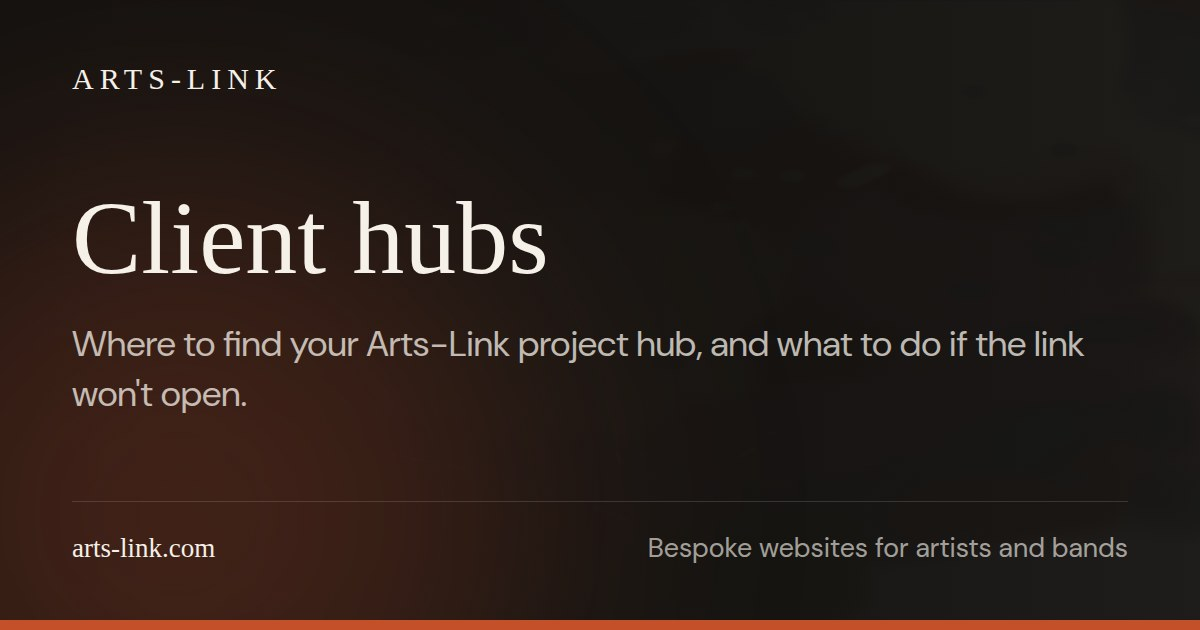
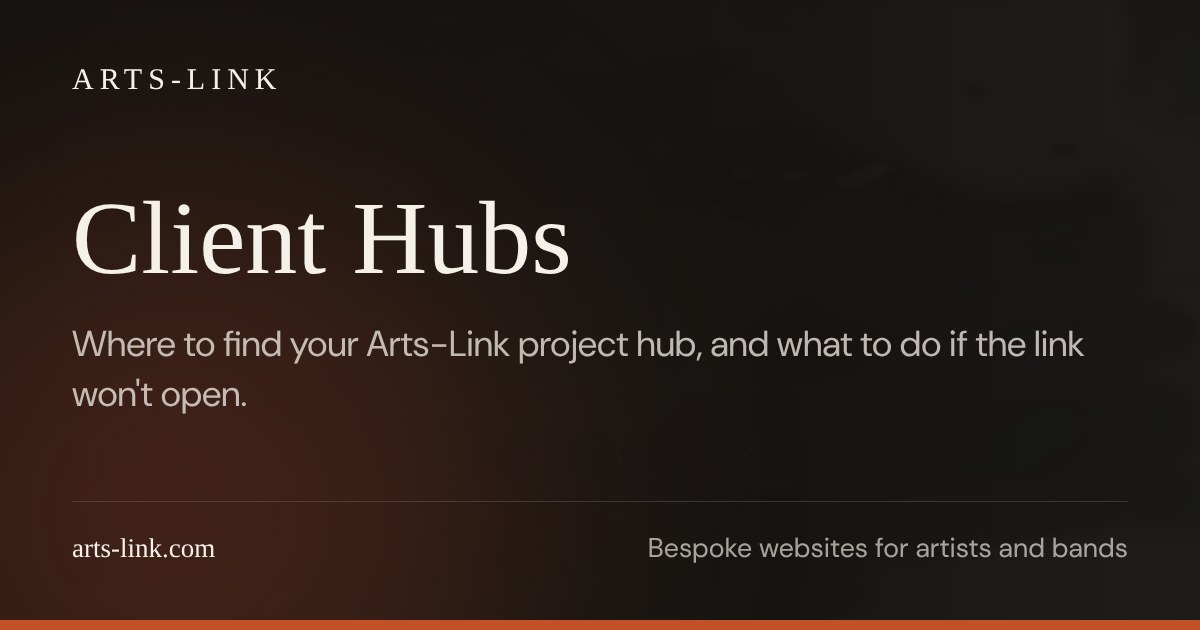
Title case for every h1 and h2
Dynamic headings go through Hugo's title function (AP style): page titles in layouts, the page <title>, JSON-LD names, social cards, and markdown # / ## headings via a render hook. Hand-written template headings are title case, and a smoke test checks every built h1/h2. h3 and below stay sentence case. Updates writing-style and design-system docs; regenerates the cards whose titles changed.

Claude-Session: https://claude.ai/code/session_01A2ZgeWNbXddwNj2k77Go2p

diff --git a/tests/smoke.test.js b/tests/smoke.test.js
@@ -394,9 +394,9 @@ describe.skipIf(!built)('smoke – internal links resolve', () => {
 describe.skipIf(!built)('smoke – work filter pages', () => {
   const FILTERS = [
     { page: 'work/index.html', href: '/work/', label: 'All', type: null },
-    { page: 'work/new-sites/index.html', href: '/work/new-sites/', label: 'New sites', type: 'new' },
-    { page: 'work/rescues/index.html', href: '/work/rescues/', label: 'Site rescues', type: 'rescue' },
-    { page: 'work/open-source/index.html', href: '/work/open-source/', label: 'Open source', type: 'open-source' },
+    { page: 'work/new-sites/index.html', href: '/work/new-sites/', label: 'New sites', heading: 'New Sites', type: 'new' },
+    { page: 'work/rescues/index.html', href: '/work/rescues/', label: 'Site rescues', heading: 'Site Rescues', type: 'rescue' },
+    { page: 'work/open-source/index.html', href: '/work/open-source/', label: 'Open source', heading: 'Open Source', type: 'open-source' },
   ];
   const cards = (rel) =>
     [...readPage(rel).window.document.querySelectorAll('article h3')].map((h) => h.textContent.trim());
@@ -427,10 +427,10 @@ describe.skipIf(!built)('smoke – work filter pages', () => {
     expect(document.querySelector('[data-filter]')).toBeNull();
   });
 
-  it.each(FILTERS.slice(1))('$page has its own title, description and canonical', ({ page, label, href }) => {
+  it.each(FILTERS.slice(1))('$page has its own title, description and canonical', ({ page, heading, href }) => {
     const { document } = readPage(page).window;
-    expect(document.querySelector('h1').textContent.trim()).toBe(label);
-    expect(document.title).toContain(label);
+    expect(document.querySelector('h1').textContent.trim()).toBe(heading);
+    expect(document.title).toContain(heading);
     expect(document.querySelector('link[rel="canonical"]').getAttribute('href')).toMatch(new RegExp(`${href}$`));
     expect(document.querySelector('header p.text-cream\\/55')?.textContent.trim()).toBe(metaDescription(page));
   });
@@ -442,5 +442,31 @@ describe.skipIf(!built)('smoke – work filter pages', () => {
       expect(home).not.toContain(`/work/${slug}/`);
       expect(llms).not.toContain(`/work/${slug}/`);
     }
+  });
+});
+
+// ─── Title case ──────────────────────────────────────────────────────────────
+
+// h1 and h2 are title case site-wide. Templates and the markdown heading hook
+// run text through Hugo's `title` (AP style: these small words stay lowercase
+// unless they start the heading). The content/ layouts' hand-written headings
+// are checked here too, since Hugo cannot do that for literal text.
+describe.skipIf(!built)('smoke – title case headings', () => {
+  const SMALL = new Set(['a', 'an', 'and', 'as', 'at', 'but', 'by', 'for', 'if', 'in', 'nor', 'of', 'on', 'or', 'so', 'the', 'to', 'up', 'vs', 'yet']);
+  const offenders = [];
+  for (const file of findHtmlFiles(PUBLIC)) {
+    const { document } = new JSDOM(fs.readFileSync(file, 'utf8')).window;
+    for (const h of document.querySelectorAll('h1, h2')) {
+      const words = h.textContent.replace(/\s+/g, ' ').trim().split(' ');
+      const bad = words.find((w, i) => {
+        const bare = w.replace(/^[^A-Za-z]+/, '');
+        return bare && /[a-z]/.test(bare[0]) && (i === 0 || !SMALL.has(bare.toLowerCase().replace(/[^a-z]+$/, '')));
+      });
+      if (bad) offenders.push(`${path.relative(PUBLIC, file)}: "${words.join(' ')}"`);
+    }
+  }
+
+  it('every h1 and h2 is in title case', () => {
+    expect(offenders).toEqual([]);
   });
 });

diff --git a/layouts/services/list.html b/layouts/services/list.html
@@ -14,7 +14,7 @@
   <!-- Who it's for -->
   <section class="border-t border-cream/10">
     <div class="max-w-6xl mx-auto px-6 py-24">
-      <h2 class="font-display text-3xl md:text-4xl text-cream font-light mb-16">Who I work with</h2>
+      <h2 class="font-display text-3xl md:text-4xl text-cream font-light mb-16">Who I Work With</h2>
       <div class="grid grid-cols-1 md:grid-cols-3 gap-10">
         <div>
           <div class="w-8 h-[2px] bg-ember mb-8"></div>
@@ -38,7 +38,7 @@
   <!-- Process -->
   <section class="border-t border-cream/10">
     <div class="max-w-6xl mx-auto px-6 py-24">
-      <h2 class="font-display text-3xl md:text-4xl text-cream font-light mb-16">How it works</h2>
+      <h2 class="font-display text-3xl md:text-4xl text-cream font-light mb-16">How It Works</h2>
       <div class="grid grid-cols-1 sm:grid-cols-2 md:grid-cols-4 gap-10">
         {{ range $i, $step := slice "We talk about your project — what you need, what you have, what you want." "I design and build the site, checking in with you along the way." "We launch. I teach you how to update content yourself." "You own everything. I'm available when you need me." }}
         <div>
@@ -54,7 +54,7 @@
   <section class="border-t border-cream/10">
     <div class="max-w-6xl mx-auto px-6 py-24 flex flex-col md:flex-row justify-between items-start gap-8">
       <div>
-        <h2 class="font-display text-2xl text-cream font-light mb-3">Domain names</h2>
+        <h2 class="font-display text-2xl text-cream font-light mb-3">Domain Names</h2>
         <p class="text-cream/45 max-w-lg text-sm leading-relaxed">
           Need a domain? I run a domain reseller store with competitive pricing. Getting the right domain is the first step for any new site.
         </p>

diff --git a/layouts/blog/list.html b/layouts/blog/list.html
@@ -5,7 +5,7 @@
   <header class="pb-14 border-b border-cream/10">
     <p class="text-cream/25 text-xs tracking-widest uppercase mb-5" aria-hidden="true">Studio notes</p>
     <h1 class="font-display text-6xl md:text-7xl text-cream font-light leading-none mb-6">
-      {{ .Title }}
+      {{ .Title | title }}
     </h1>
     {{ with .Description }}
     <p class="text-cream/45 text-lg max-w-lg leading-relaxed">{{ . }}</p>
@@ -30,7 +30,7 @@
           <!-- Content -->
           <div class="flex-1 min-w-0">
             <h2 class="font-display text-3xl md:text-4xl text-cream font-light leading-snug mb-4 group-hover:text-ember transition-colors duration-300">
-              <a href="{{ .RelPermalink }}">{{ .Title }}</a>
+              <a href="{{ .RelPermalink }}">{{ .Title | title }}</a>
             </h2>
             {{ with .Description }}
             <p class="text-cream/60 text-base leading-relaxed mb-6 max-w-xl">{{ . }}</p>

diff --git a/layouts/thanks/list.html b/layouts/thanks/list.html
@@ -1,7 +1,7 @@
 {{ define "main" }}
 <div class="min-h-[80vh] flex flex-col items-center justify-center text-center px-6">
   <p class="text-ember text-xs tracking-[0.3em] uppercase mb-6">{{ .Params.eyebrow | default "Message received" }}</p>
-  <h1 class="font-display text-5xl md:text-7xl text-cream font-light mb-6">{{ .Params.heading | default "Thank you." }}</h1>
+  <h1 class="font-display text-5xl md:text-7xl text-cream font-light mb-6">{{ .Params.heading | default "Thank you." | title }}</h1>
   <p class="text-cream/50 text-lg max-w-sm mb-14 leading-relaxed">
     {{ .Params.body | default "I'll get back to you personally within a day or two." }}
   </p>

diff --git a/layouts/archive-worksheet/list.html b/layouts/archive-worksheet/list.html
@@ -152,7 +152,7 @@ button[type=submit]:hover{background:var(--warm)}
 </header>
 
 <div class="expect">
-  <h2>Before you start — what to expect</h2>
+  <h2>Before You Start — What to Expect</h2>
   <ul>
     <li><strong>The first conversation is free.</strong> I&rsquo;ll review this worksheet, talk with you for about 45 minutes, and submit a written plan with a fee structure.</li>
     <li><strong>Most projects run $5,000–$8,000</strong> for my work, plus roughly $1,000–$2,500 paid directly to the scanning lab (if your material is not already scanned). Smaller collections cost less. We&rsquo;ll size yours together.</li>

diff --git a/layouts/partials/head/json-ld.html b/layouts/partials/head/json-ld.html
@@ -49,7 +49,7 @@
       "@type": "{{ if .IsPage }}WebPage{{ else }}CollectionPage{{ end }}",
       "@id": "{{ .Permalink }}#webpage",
       "url": "{{ .Permalink }}",
-      "name": "{{ .Title }}",
+      "name": "{{ .Title | title }}",
       "description": "{{ with .Description }}{{ . }}{{ else }}{{ .Site.Params.description }}{{ end }}",
       "isPartOf": { "@id": "{{ .Site.BaseURL }}#website" }
     },
@@ -65,7 +65,7 @@
         {
           "@type": "ListItem",
           "position": 2,
-          "name": "{{ .Title }}",
+          "name": "{{ .Title | title }}",
           "item": "{{ .Permalink }}"
         }
       ]

diff --git a/layouts/_default/_markup/render-heading.html b/layouts/_default/_markup/render-heading.html
@@ -1,0 +1,11 @@
+{{/*
+  Markdown headings. h1 and h2 are set in title case with Hugo's `title`
+  (AP style: "of", "and", "to" stay lowercase); h3 and below are untouched.
+  Title case works on plain text, so a heading with inline markup (a link or
+  code span) is left as written.
+*/}}
+{{- $text := .Text | safeHTML -}}
+{{- if and (le .Level 2) (not (findRE "<" .Text)) -}}
+  {{- $text = .PlainText | htmlUnescape | title -}}
+{{- end -}}
+<h{{ .Level }} id="{{ .Anchor | safeURL }}"{{ range $k, $v := .Attributes }}{{ if ne $k "id" }} {{ $k }}="{{ $v }}"{{ end }}{{ end }}>{{ $text }}</h{{ .Level }}>

diff --git a/layouts/partials/modules/faq.html b/layouts/partials/modules/faq.html
@@ -17,7 +17,7 @@
 {{- $more := where . "featured" "ne" true -}}
 <section class="max-w-3xl mx-auto px-6 pb-24" aria-labelledby="faq-heading">
   <hr class="border-cream/10 mb-12">
-  <h2 id="faq-heading" class="font-display text-3xl md:text-4xl text-cream font-light tracking-tight mb-10">{{ $.Params.faq_title | default "Common questions" }}</h2>
+  <h2 id="faq-heading" class="font-display text-3xl md:text-4xl text-cream font-light tracking-tight mb-10">{{ $.Params.faq_title | default "Common questions" | title }}</h2>
 
   <div class="space-y-10 mb-12">
     {{ range $featured }}

diff --git a/layouts/_default/baseof.html b/layouts/_default/baseof.html
@@ -13,7 +13,7 @@
   <link rel="icon" href="/favicon.ico" sizes="32x32">
   <link rel="icon" href="/favicon.svg" type="image/svg+xml">
   <meta name="viewport" content="width=device-width, initial-scale=1">
-  {{- $title := cond .IsHome (default .Site.Title .Title) (printf "%s · %s" .Title .Site.Title) }}
+  {{- $title := cond .IsHome (default .Site.Title (.Title | title)) (printf "%s · %s" (.Title | title) .Site.Title) }}
   {{- $description := partial "page-description.html" . }}
 
   {{/* Per-page social card, generated by `npm run og` into static/og/ and keyed

diff --git a/layouts/work/single.html b/layouts/work/single.html
@@ -19,7 +19,7 @@
         {{ end }}
         <span class="text-cream/35 text-sm capitalize">{{ .Params.client_type }}</span>
       </div>
-      <h1 class="font-display text-5xl md:text-7xl text-cream font-light mb-8">{{ .Title }}</h1>
+      <h1 class="font-display text-5xl md:text-7xl text-cream font-light mb-8">{{ .Title | title }}</h1>
       <div class="flex flex-wrap items-center gap-6">
         {{ with .Params.live_url }}
         <a href="{{ . }}" target="_blank" rel="noopener noreferrer" class="text-ember text-sm tracking-wide hover:underline">

diff --git a/layouts/contact/list.html b/layouts/contact/list.html
@@ -7,7 +7,7 @@
       <div>
         <p class="text-ember text-xs tracking-[0.3em] uppercase mb-8">Get in touch</p>
         <h1 class="font-display text-4xl md:text-5xl text-cream font-light mb-8 leading-snug">
-          Let's talk about your project.
+          Let's Talk About Your Project.
         </h1>
         <p class="text-cream/50 leading-relaxed mb-14">
           I'm Ben Strawbridge. I work one-on-one with artists and bands. Send me a message and I'll get back to you personally — usually within a day or two.

diff --git a/layouts/partials/og-card.html b/layouts/partials/og-card.html
@@ -102,7 +102,7 @@
       {{ with $eyebrow }}
         <p class="mb-[22px] text-[30px] font-medium uppercase tracking-[0.13em] text-ember">{{ . }}</p>
       {{ end }}
-      <h1 class="font-display font-medium leading-[1.06] text-cream {{ $titleSize }}">{{ .Title }}</h1>
+      <h1 class="font-display font-medium leading-[1.06] text-cream {{ $titleSize }}">{{ .Title | title }}</h1>
       {{ with $desc }}
         <p class="mt-[26px] line-clamp-2 text-[36px] leading-snug text-cream/75">{{ . }}</p>
       {{ end }}
